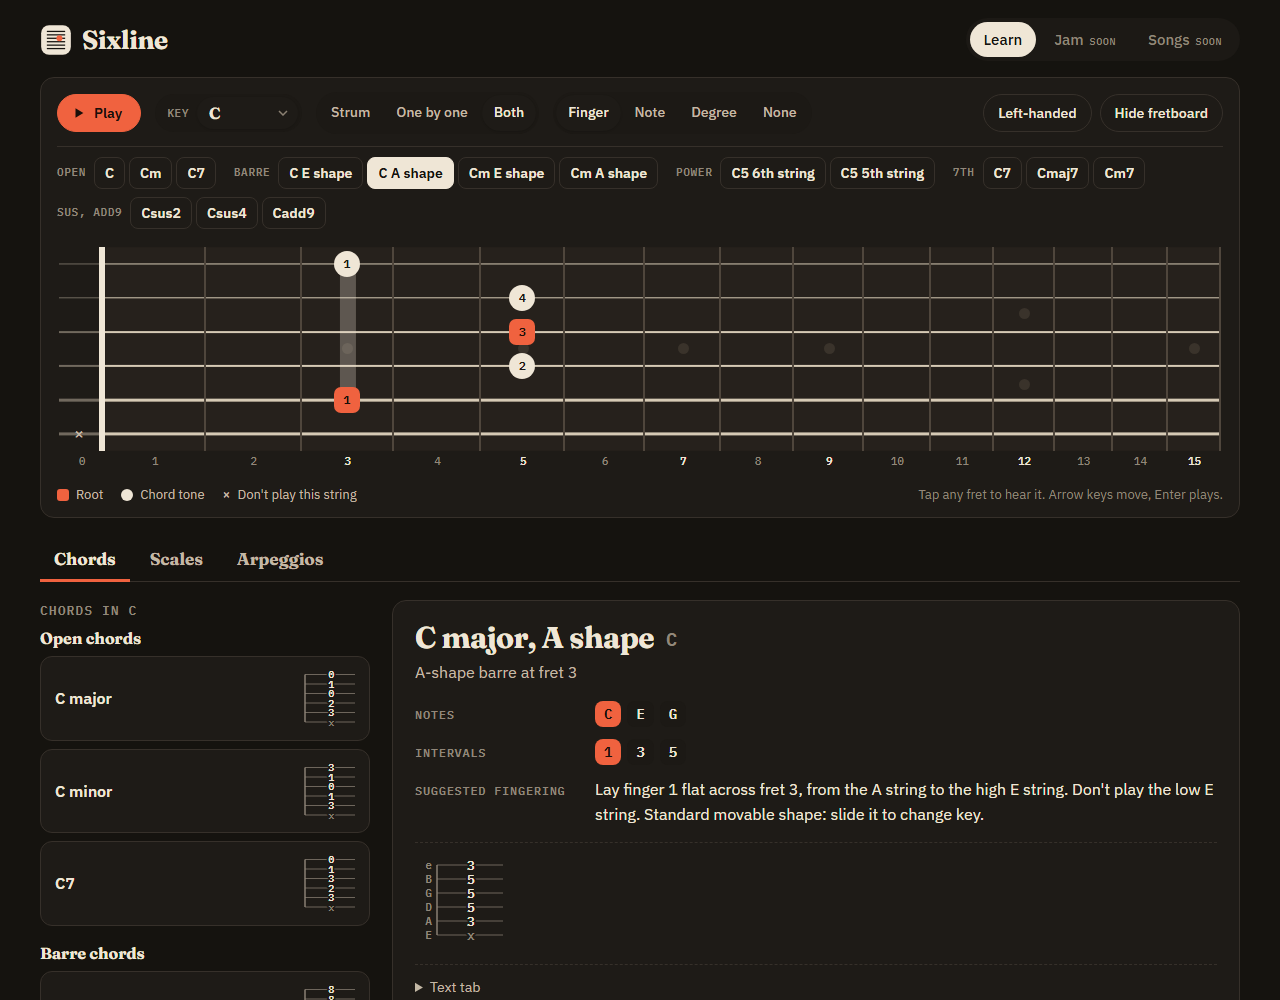
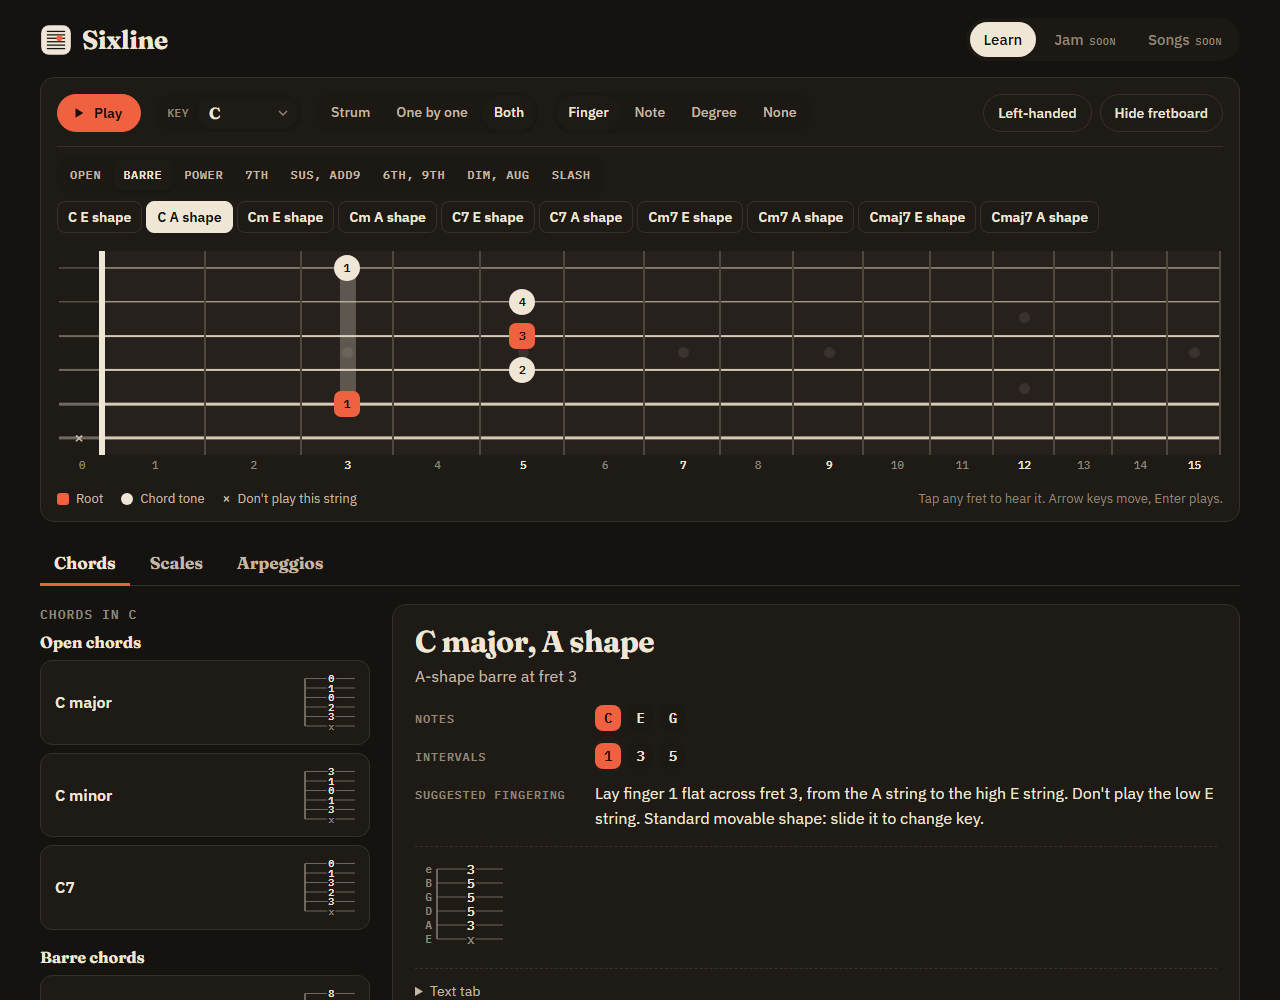
Split the quick picker into groups and items
With about 35 chords the single row of chips grew to five rows. Now one
row lists the groups and the second lists the items in the chosen group
plus the current item's voicings. README lists the new items and the
screenshots are refreshed.

diff --git a/src/learn/learnView.ts b/src/learn/learnView.ts
@@ -78,7 +78,12 @@ export class LearnView {
     else this.renderEmpty(category, item, root);
   }
 
-  /** Chips above the fretboard for every item and voicing, so switching never needs a scroll. */
+  /**
+   * Quick picker above the fretboard, so switching never needs a scroll.
+   * Row 1: the groups (Open, Barre, 7th...). Row 2: the items in the chosen
+   * group, then the positions or voicings of the current item. It opens on the
+   * current item's group; choosing another group only swaps row 2.
+   */
   private renderPicker(
     category: Category,
     items: CatalogItem[],
@@ -91,31 +96,64 @@ export class LearnView {
     const nav = document.createElement('nav');
     nav.className = 'picker__nav';
     nav.setAttribute('aria-label', `Pick ${category.label.toLowerCase()}`);
-    const groups = category.groups ?? [{ id: '', label: category.label, short: category.label }];
-    let html = '';
-    for (const g of groups) {
-      const inGroup = items.filter((i) => (g.id ? i.group === g.id : true));
-      if (!inGroup.length) continue;
-      html += `<div class="picker__group"><span class="picker__label" aria-hidden="true">${esc(g.short)}</span>`;
+    const groups = (category.groups ?? [{ id: '', label: category.label, short: category.label }]).filter((g) =>
+      items.some((i) => (g.id ? i.group === g.id : true)),
+    );
+    const pickedGroup = focusedPick?.startsWith('group:') ? focusedPick.slice(6) : undefined;
+    let active = groups.find((g) => g.id === pickedGroup)?.id ?? current.group ?? groups[0]?.id ?? '';
+
+    const groupRow = document.createElement('div');
+    groupRow.className = 'picker__groups';
+    groupRow.setAttribute('role', 'group');
+    groupRow.setAttribute('aria-label', `${category.label} groups`);
+    groupRow.innerHTML = groups
+      .map(
+        (g) =>
+          `<button type="button" class="pickgroup" data-pick="group:${g.id}" data-group="${g.id}" aria-label="${esc(g.label)}">${esc(g.short)}</button>`,
+      )
+      .join('');
+
+    const itemRow = document.createElement('div');
+    itemRow.className = 'picker__items';
+
+    const positionsHtml = () => {
+      if (!shape || shapes.length < 2) return '';
+      const unit = shape.kind === 'chord' ? 'Voicing' : 'Position';
+      let html = `<div class="picker__group picker__group--pos"><span class="picker__label" aria-hidden="true">${unit}</span>`;
+      shapes.forEach((sh, i) => {
+        const where = sh.position?.startFret ? `fret ${sh.position.startFret}` : 'open';
+        const text = sh.position ? String(i + 1) : 'Whole neck';
+        const label = sh.position ? `${unit} ${i + 1}, ${where}` : 'Whole neck, every note';
+        html += `<a class="pick${sh.position ? ' pick--num' : ''}" data-pick="pos:${i + 1}" href="${this.link([category.id, current.id], { pos: i + 1 })}" aria-label="${label}" ${sh === shape ? 'aria-current="true"' : ''}>${text}</a>`;
+      });
+      return html + '</div>';
+    };
+
+    const paint = () => {
+      groupRow.querySelectorAll<HTMLButtonElement>('.pickgroup').forEach((b) => b.setAttribute('aria-pressed', String(b.dataset.group === active)));
+      const inGroup = items.filter((i) => (active ? i.group === active : true));
+      let html = '<div class="picker__group">';
       for (const it of inGroup) {
         html += `<a class="pick" data-pick="item:${it.id}" href="${this.link([category.id, it.id])}" aria-label="${esc(it.label(root))}" ${it.id === current.id ? 'aria-current="true"' : ''}>${esc(it.short(root))}</a>`;
       }
       html += '</div>';
-    }
-    if (shape && shapes.length > 1) {
-      const unit = shape.kind === 'chord' ? 'Voicing' : 'Position';
-      html += `<div class="picker__group picker__group--pos"><span class="picker__label" aria-hidden="true">${unit}</span>`;
-      shapes.forEach((s, i) => {
-        const where = s.position?.startFret ? `fret ${s.position.startFret}` : 'open';
-        const text = s.position ? String(i + 1) : 'Whole neck';
-        const label = s.position ? `${unit} ${i + 1}, ${where}` : 'Whole neck, every note';
-        html += `<a class="pick${s.position ? ' pick--num' : ''}" data-pick="pos:${i + 1}" href="${this.link([category.id, current.id], { pos: i + 1 })}" aria-label="${label}" ${s === shape ? 'aria-current="true"' : ''}>${text}</a>`;
-      });
-      html += '</div>';
-    }
-    nav.innerHTML = html;
+      // Positions belong to the current item, so they only show beside its own group.
+      if (active === (current.group ?? '')) html += positionsHtml();
+      itemRow.innerHTML = html;
+    };
+
+    groupRow.addEventListener('click', (e) => {
+      const b = (e.target as HTMLElement).closest<HTMLButtonElement>('.pickgroup');
+      if (!b) return;
+      active = b.dataset.group ?? '';
+      paint();
+    });
+
+    paint();
+    if (groups.length > 1) nav.append(groupRow);
+    nav.append(itemRow);
     this.stage.setPicker(nav);
-    if (focusedPick) nav.querySelector<HTMLElement>(`[data-pick="${focusedPick}"]`)?.focus();
+    if (focusedPick && !focusedPick.startsWith('group:')) nav.querySelector<HTMLElement>(`[data-pick="${focusedPick}"]`)?.focus();
   }
 
   private renderList(category: Category, items: CatalogItem[], current: CatalogItem, root: string): void {
@@ -177,7 +215,7 @@ export class LearnView {
     const fingerLabel = shape.fingeringSource === 'chords-db' ? 'Fingering' : 'Suggested fingering';
     d.innerHTML = `
       <header class="detail__head">
-        <h2 id="detail-title">${esc(shape.name)}${shape.symbol && shape.symbol !== shape.name && shape.symbol !== shape.root ? ` <span class="detail__symbol">${esc(shape.symbol)}</span>` : ''}</h2>
+        <h2 id="detail-title">${esc(shape.name)}${shape.symbol && !shape.name.startsWith(shape.symbol) && shape.symbol !== shape.root ? ` <span class="detail__symbol">${esc(shape.symbol)}</span>` : ''}</h2>
         ${sub ? `<p class="detail__sub">${esc(sub)}</p>` : ''}
       </header>
       <dl class="facts">

diff --git a/src/styles.css b/src/styles.css
@@ -1075,3 +1075,66 @@ main:focus {
     padding-top: 2px;
   }
 }
+
+/* Two-row picker: groups, then the items in the chosen group. */
+.picker__nav {
+  flex-direction: column;
+  flex-wrap: nowrap;
+  gap: 8px;
+}
+.picker__groups,
+.picker__items {
+  display: flex;
+  flex-wrap: wrap;
+  align-items: center;
+  gap: 4px 18px;
+}
+.picker__groups {
+  gap: 2px;
+  padding: 3px;
+  background: var(--paper-2);
+  border-radius: 10px;
+  align-self: flex-start;
+}
+.pickgroup {
+  font: 600 12px/1 var(--font-mono);
+  text-transform: uppercase;
+  letter-spacing: 0.05em;
+  color: var(--ink-2);
+  background: transparent;
+  border: 0;
+  border-radius: 7px;
+  padding: 7px 10px;
+  min-height: 30px;
+  cursor: pointer;
+  white-space: nowrap;
+}
+.pickgroup:hover {
+  color: var(--ink);
+}
+.pickgroup[aria-pressed='true'] {
+  background: var(--card);
+  color: var(--ink);
+  box-shadow: 0 1px 2px rgba(0, 0, 0, 0.12);
+}
+.pickgroup:focus-visible {
+  outline: 2px solid var(--focus);
+  outline-offset: 1px;
+}
+
+@media (max-width: 700px) {
+  .picker__nav {
+    overflow-x: visible;
+    padding-bottom: 0;
+  }
+  .picker__groups,
+  .picker__items {
+    flex-wrap: nowrap;
+    overflow-x: auto;
+    max-width: 100%;
+    scrollbar-width: thin;
+  }
+  .picker__items {
+    padding-bottom: 4px;
+  }
+}

diff --git a/README.md b/README.md
@@ -10,9 +10,24 @@ A free, interactive guitar fretboard for people who read tab, not standard notat
 
 Sixline is the first phase of a guitar learning app built around one interactive fretboard. This phase is **Learn**: a reference you can play with.
 
-- **Chords:** open chords, E-shape and A-shape barre chords, power chords, 7th chords (dominant, major 7, minor 7), sus2, sus4, and add9.
-- **Scales:** major and minor pentatonic in all five positions, blues, major, natural minor, and the modes (Dorian, Phrygian, Lydian, Mixolydian, Locrian).
-- **Arpeggios:** major, minor, dominant 7, major 7, minor 7, minor 7 flat 5, and diminished 7.
+- **Chords:**
+  - Open chords (major, minor, 7).
+  - E-shape and A-shape barre chords for major, minor, 7, minor 7, and major 7.
+  - Power chords with the root on the 6th or 5th string.
+  - 7th chords: dominant 7, major 7, minor 7, and minor 7 flat 5.
+  - Sus2, sus4, 7sus4, and add9.
+  - 6, minor 6, and 9.
+  - Diminished, diminished 7, and augmented.
+  - Slash chords: major and minor over their 3rd or 5th, like G/B and C/G.
+- **Scales:**
+  - Major and minor pentatonic in all five positions, plus blues and major blues.
+  - Major, natural minor, harmonic minor, and melodic minor.
+  - The modes: Dorian, Phrygian, Lydian, Mixolydian, and Locrian.
+  - Symmetric and exotic scales: Phrygian dominant, whole tone, and both diminished scales (whole-half and half-whole).
+- **Arpeggios:**
+  - Major, minor, diminished, and augmented triads.
+  - Dominant 7, major 7, minor 7, minor 7 flat 5, diminished 7, and minor major 7.
+  - Major 6, minor 6, and dominant 9.
 - **Any key:** the key picker regenerates everything from music theory. Nothing is a hand-typed table.
 
 Every item comes with its notes, intervals, a fingering, a tab preview, and a short plain-English note on how it sounds and when to use it.
@@ -25,7 +40,7 @@ Every item comes with its notes, intervals, a fingering, a tab preview, and a sh
 - Dots can show finger numbers (1 to 4, T for thumb), note names, scale degrees (1, b3, 5...), or nothing.
 - Tap any fret to hear it. **Play** runs the selected shape and lights each dot and tab column as it sounds. Chords can play as a strum, one string at a time, or both.
 - Left-handed mode mirrors the neck. The fretboard can be hidden.
-- A row of quick-pick buttons sits right above the neck, so switching from A to A7 to Amaj7 takes one click each and no scrolling.
+- A quick picker sits right above the neck: one row of groups (Open, Barre, 7th...) and one row of the items in that group, so switching from A to A7 to Amaj7 takes one click each and no scrolling.
 - Every shape also has a plain-text tab you can copy.
 
 <img src="docs/learn-phone.png" alt="Sixline on a phone: the neck runs down the screen like a chord chart, showing an open G chord" width="300">
@@ -35,12 +50,13 @@ Every item comes with its notes, intervals, a fingering, a tab preview, and a sh
 Chord fingerings come from [chords-db](https://github.com/tombatossals/chords-db). Scale and arpeggio fingerings are generated by rules and labeled "Suggested fingering":
 
 - **Pentatonic positions:** position 1 starts on the root on the low E string, and each position after it starts on the next scale note. Two notes per string, chosen by pitch, so the B string's tuning works out on its own.
-- **Seven-note scales and arpeggios:** one finger per fret in a four-fret window, index on the first fret. Where a note falls in the one-fret gap between strings, the index reaches back one fret on the higher string, and the dot gets a dashed ring.
-- **Blues:** the minor pentatonic boxes with the flat 5 added where it falls.
+- **Seven-note scales, symmetric scales, and arpeggios:** one finger per fret in a four-fret window, index on the first fret. Where a note falls in the one-fret gap between strings, the index reaches back one fret on the higher string, and the dot gets a dashed ring.
+- **Blues and major blues:** the minor or major pentatonic boxes with the blue note added where it falls.
 - **Barre and power chords:** the standard movable shapes, slid to the root. They use the chords-db fingering whenever chords-db has the same voicing.
-- **Readable spelling:** if a key would need awkward names, the root is respelled. Db dorian shows as C# dorian.
+- **Slash chords:** the open shapes chords-db has (like G/B and D/F#), plus a movable shape that works in every key.
+- **Readable spelling:** if a key would need awkward names, the root is respelled. Db dorian shows as C# dorian. Symmetric scales and augmented chords use plain note names (G rather than F##).
 
-A few chords-db voicings contain a note that is not in the chord, or a fretted note with no finger. Sixline leaves those out rather than show a mistake.
+A few chords-db voicings contain a note that is not in the chord, leave out a chord tone other than the 5th, or have a fretted note with no finger. Sixline leaves those out rather than show a mistake.
 
 ## Accessibility
 
